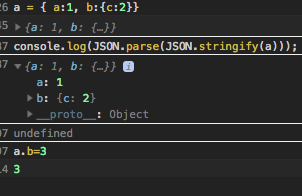
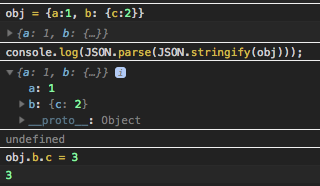
refine.

Changed region(s): [[0.0, 0.0, 1.0, 0.8871], [0.0, 0.914, 0.0596, 0.9677]]

diff --git a/js/console.md b/js/console.md
@@ -33,11 +33,11 @@ use console.log(JSON.parse(JSON.stringify(obj)));.
 
 ![단순 console.log](./console.log-simple.png)
 
-`a.b.c`에 2가 들어있는 `a` 객체를 그냥 로깅하면 `a.b`의 값은 생략되어 표시되는데, `a.b` 의 값을 3으로 바꿔 버린 다음에 위에서 로깅해놓았던 a객체의 생략했던 부분을 펼치면, 원래 로그를 찍었던 시점이 아니라 현재 시점의 `a.b`의 값이 보이고 대체로 이것은 원하는 작동이 아닐 것이다.
+`obj.b.c`에 2가 들어있는 `obj` 객체를 그냥 로깅하면 `obj.b`의 값은 생략되어 표시되는데, `obj.b.c` 의 값을 3으로 바꿔 버린 다음에 위에서 로깅해놓았던 `obj` 객체의 생략했던 부분을 펼치면, 원래 로그를 찍었던 시점의 값(`2`)이 아니라 현재 시점의 `obj.b`의 값(`3`)이 보이고 대체로 이것은 원하는 작동이 아닐 것이다.
 
 ![stringify console.log](./console.log-stringify.png)
 
-`a.b.c`에 2가 들어있는 `a` 객체를 stringify해서 로그를 남기면, 이때도 `a.b`의 값은 생략되어 보이지만, 로깅을 하고 나서 `a.b`의 값을 바꾸고 아까 생략된 부분을 펼쳐도 아까 로그 남긴 시점의 값이 제대로 보인다.
+`obj.b.c`에 2가 들어있는 `obj` 객체를 stringify해서 로그를 남기면, 이때도 `obj.b`의 값은 생략되어 보이지만, 로깅을 하고 나서 `obj.b.c`의 값을 바꾸고 아까 생략된 부분을 펼쳐도 아까 로그 남긴 시점의 값이 제대로 보인다.
 
 
 ----
